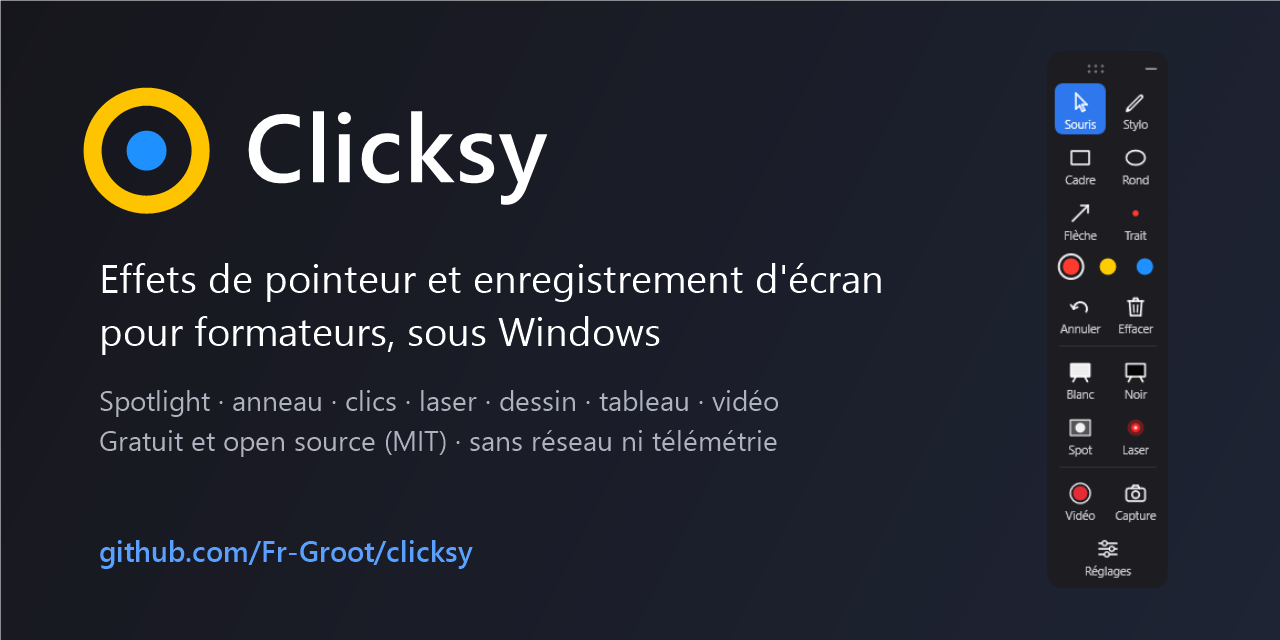
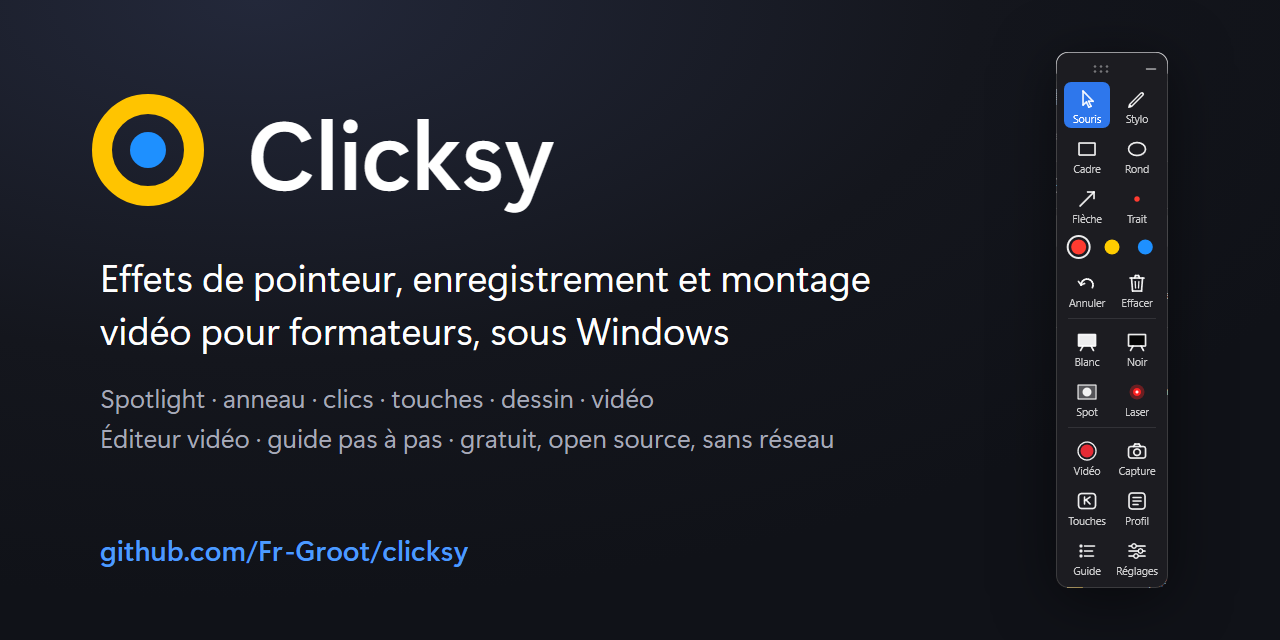
Site et README : éditeur vidéo, guide pas à pas, nouvelles captures
- Sections « Un éditeur vidéo intégré » et « Un guide pas à pas, sans rien écrire ».
- Nouvelles cartes : touches affichées, guide, profils, séances rangées par formation.
- Captures refaites avec la v0.6 sur un contenu neutre (réglages, spotlight, barre
  d'outils, éditeur, guide) et nouvelle image d'aperçu pour les réseaux.
- FAQ (rangement des fichiers, confidentialité du guide) et note entreprise précisée.

diff --git a/site/index.html b/site/index.html
@@ -3,12 +3,12 @@
 <head>
   <meta charset="utf-8">
   <meta name="viewport" content="width=device-width, initial-scale=1">
-  <title>Clicksy – Effets de pointeur et enregistrement d'écran pour formateurs</title>
-  <meta name="description" content="Clicksy est une application Windows gratuite et open source pour formateurs : spotlight, anneau autour du curseur, effets de clic, pointeur laser, dessin à l'écran, tableau blanc et enregistrement vidéo. Sans réseau ni télémétrie.">
+  <title>Clicksy – Effets de pointeur, enregistrement et montage vidéo pour formateurs</title>
+  <meta name="description" content="Clicksy est une application Windows gratuite et open source pour formateurs : spotlight, anneau autour du curseur, effets de clic, touches affichées, dessin à l'écran, enregistrement vidéo avec éditeur (coupes, zooms sur les clics) et guide pas à pas imprimable. Sans réseau ni télémétrie.">
   <link rel="icon" href="images/icon.png">
   <meta property="og:type" content="website">
   <meta property="og:title" content="Clicksy – Effets de pointeur pour formateurs">
-  <meta property="og:description" content="Spotlight, anneau, clics, laser, dessin à l'écran, tableau blanc et enregistrement vidéo. Gratuit, open source, sans réseau ni télémétrie.">
+  <meta property="og:description" content="Spotlight, anneau, clics, touches affichées, dessin, enregistrement vidéo avec éditeur et guide pas à pas. Gratuit, open source, sans réseau ni télémétrie.">
   <meta property="og:image" content="https://fr-groot.github.io/clicksy/images/social-preview.png">
   <meta property="og:url" content="https://fr-groot.github.io/clicksy/">
   <meta name="twitter:card" content="summary_large_image">
@@ -23,6 +23,8 @@
       </a>
       <nav>
         <a href="#fonctions">Fonctions</a>
+        <a href="#editeur">Éditeur</a>
+        <a href="#guide">Guide</a>
         <a href="#entreprise">Entreprise</a>
         <a href="#faq">FAQ</a>
         <a href="https://github.com/Fr-Groot/clicksy">GitHub</a>
@@ -35,7 +37,7 @@
       <div class="hero-text">
         <p class="kicker">Gratuit · open source · Windows 10 et 11</p>
         <h1>Guidez le regard de votre public</h1>
-        <p class="lead">Clicksy met en valeur votre souris, vos clics et vos annotations pendant vos tutos e-learning, vos démos de logiciels et vos classes virtuelles sur Teams, Zoom ou Meet. Et il enregistre l'écran quand vous en avez besoin.</p>
+        <p class="lead">Clicksy met en valeur votre souris, vos clics et vos annotations pendant vos tutos e-learning, vos démos de logiciels et vos classes virtuelles sur Teams, Zoom ou Meet. Il enregistre l'écran, vous aide à monter la vidéo, et transforme vos clics en guide pas à pas pour vos stagiaires.</p>
         <div class="cta">
           <a class="btn primary" id="dl-msi" href="https://github.com/Fr-Groot/clicksy/releases/latest">Télécharger pour Windows</a>
           <a class="btn" id="dl-zip" href="https://github.com/Fr-Groot/clicksy/releases/latest">Version portable (zip)</a>
@@ -48,8 +50,8 @@
         </ul>
       </div>
       <div class="hero-shots">
-        <img class="shot main" src="images/spotlight.png" alt="Spotlight et anneau jaune autour du curseur, sur la fenêtre de réglages de Clicksy" width="862" height="412">
-        <img class="shot bar" src="images/barre-outils.png" alt="Barre d'outils flottante de Clicksy" width="112" height="486">
+        <img class="shot main" src="images/spotlight.png" alt="Spotlight et anneau jaune autour du curseur, sur la fenêtre de réglages de Clicksy" width="1184" height="560">
+        <img class="shot bar" src="images/barre-outils.png" alt="Barre d'outils flottante de Clicksy" width="112" height="536">
       </div>
     </section>
 
@@ -64,8 +66,44 @@
           <article><span class="ico" style="--c:#FF3B30">●</span><h3>Laser et traînée</h3><p>Un point lumineux qui laisse une traînée, comme une télécommande de présentation.</p></article>
           <article><span class="ico" style="--c:#FF3B30">✎</span><h3>Dessin à l'écran</h3><p>Stylo, cadre, rond et flèche, en 3 couleurs. Maj pour des formes parfaites, Ctrl+Z pour annuler, Échap pour effacer.</p></article>
           <article><span class="ico" style="--c:#e6e6e6">▭</span><h3>Tableau blanc ou noir</h3><p>Un écran vierge, en un clic, pour expliquer un schéma. Vos dessins de l'écran vous attendent à la fermeture.</p></article>
-          <article><span class="ico" style="--c:#E52B35">⏺</span><h3>Enregistrement vidéo</h3><p>Écran entier, une fenêtre ou une zone, avec le son du PC et le micro. La souris et les effets apparaissent dans la vidéo.</p></article>
-          <article><span class="ico" style="--c:#2f7cf6">⧉</span><h3>Capture d'écran</h3><p>Une image PNG enregistrée dans Images › Clicksy et copiée dans le presse-papiers, prête à coller dans Word ou Teams.</p></article>
+          <article><span class="ico" style="--c:#7b5cff">⌨</span><h3>Touches affichées</h3><p>Les raccourcis utilisés apparaissent en bas de l'écran : « Ctrl + C », « Maj + Clic gauche ». Jamais le texte d'un mot de passe.</p></article>
+          <article><span class="ico" style="--c:#E52B35">⏺</span><h3>Enregistrement vidéo</h3><p>Écran entier, une fenêtre ou une zone, avec le son du PC et le micro, puis montage dans l'éditeur intégré.</p></article>
+          <article><span class="ico" style="--c:#2ecc71">☰</span><h3>Guide pas à pas</h3><p>Chaque clic devient une étape illustrée et décrite. Le guide s'imprime ou s'enregistre en PDF pour les stagiaires.</p></article>
+          <article><span class="ico" style="--c:#2f7cf6">⧉</span><h3>Capture d'écran</h3><p>Une image PNG copiée dans le presse-papiers, prête à coller dans Word ou Teams, et rangée dans le dossier de la séance.</p></article>
+          <article><span class="ico" style="--c:#FFC400">◐</span><h3>Profils d'utilisation</h3><p>Tuto, classe virtuelle, stream, démo logiciel ou vos propres réglages : un clic pour passer de l'un à l'autre.</p></article>
+          <article><span class="ico" style="--c:#1E90FF">▤</span><h3>Séances bien rangées</h3><p>Captures, tableaux et vidéos d'une séance dans un seul dossier, classé par formation. Interface en français et en anglais.</p></article>
+        </div>
+      </div>
+    </section>
+
+    <section id="editeur" class="wrap split">
+      <div>
+        <p class="kicker">Nouveau</p>
+        <h2>Un éditeur vidéo intégré</h2>
+        <p class="sub">Dès la fin de l'enregistrement, la vidéo s'ouvre dans l'éditeur. Quelques minutes suffisent pour une vidéo propre.</p>
+        <ul class="checks">
+          <li><strong>Zooms automatiques sur les clics.</strong> Clicksy se rapproche de l'endroit où vous cliquez, avec des transitions douces. Chaque zoom se déplace, s'allonge ou se règle.</li>
+          <li><strong>Couper sans effort.</strong> Réglez le début et la fin, retirez une hésitation au milieu : la lecture saute déjà les passages coupés.</li>
+          <li><strong>Son maîtrisé.</strong> Volume du son du PC et du micro, pistes enregistrées séparément.</li>
+          <li><strong>Export MP4</strong> en un clic, dans le dossier de la séance. Vos réglages restent enregistrés : rouvrez et réexportez quand vous voulez.</li>
+        </ul>
+      </div>
+      <img class="shot" src="images/editeur.png" alt="Éditeur vidéo de Clicksy : aperçu zoomé, frise avec un passage coupé et quatre zooms sur les clics" width="1484" height="932" loading="lazy">
+    </section>
+
+    <section id="guide" class="band">
+      <div class="wrap split reverse">
+        <img class="shot" src="images/guide.png" alt="Guide pas à pas généré par Clicksy : étapes numérotées avec description et gros plan sur le clic" width="920" height="1045" loading="lazy">
+        <div>
+          <p class="kicker">Nouveau</p>
+          <h2>Un guide pas à pas, sans rien écrire</h2>
+          <p class="sub">Cliquez sur « Guide », faites la manipulation une fois : Clicksy rédige le mode d'emploi pour vos stagiaires.</p>
+          <ul class="checks">
+            <li><strong>Chaque clic devient une étape</strong>, avec un gros plan de l'écran et un repère rouge à l'endroit du clic.</li>
+            <li><strong>Décrite automatiquement</strong> grâce à l'accessibilité de Windows : « Cliquer sur le bouton « Enregistrer » », « Cliquer sur l'onglet « Accueil » ». Les raccourcis deviennent aussi des étapes.</li>
+            <li><strong>Votre texte reste privé.</strong> Ce que vous tapez est signalé (« Saisir le texte voulu ») mais jamais noté.</li>
+            <li><strong>Modifiable et imprimable.</strong> Retouchez les textes dans le navigateur, puis imprimez ou enregistrez en PDF.</li>
+          </ul>
         </div>
       </div>
     </section>
@@ -81,7 +119,7 @@
           <li><strong>Interface en français et en anglais</strong>, profils (tuto, classe virtuelle, stream) appliqués en un clic, réglages appliqués en direct, thème clair ou sombre comme Windows.</li>
         </ul>
       </div>
-      <img class="shot" src="images/reglages.png" alt="Fenêtre de réglages de Clicksy, page Général" width="862" height="412" loading="lazy">
+      <img class="shot" src="images/reglages.png" alt="Fenêtre de réglages de Clicksy, page Profils" width="1184" height="640" loading="lazy">
     </section>
 
     <section id="entreprise" class="band">
@@ -89,12 +127,12 @@
         <h2>Pour votre service informatique</h2>
         <p class="sub">Clicksy a été conçu pour les postes d'entreprise. Voici ce qu'il faut savoir pour l'autoriser.</p>
         <div class="grid two">
-          <article><h3>Aucune donnée ne sort</h3><p>Pas de connexion réseau, pas de télémétrie, pas de mise à jour automatique. Les touches ne sont jamais enregistrées : le clavier ne sert qu'aux raccourcis.</p></article>
+          <article><h3>Aucune donnée ne sort</h3><p>Pas de connexion réseau, pas de télémétrie, pas de mise à jour automatique. Les touches ne sont jamais enregistrées : elles servent aux raccourcis et, si vous l'activez, à l'affichage des touches, oubliées après quelques secondes.</p></article>
           <article><h3>Installation MSI</h3><p>Installation pour tout le PC dans Program Files, déployable par Intune ou SCCM, en mode silencieux : <code>msiexec /i Clicksy_…_x64_fr-FR.msi /qn</code>.</p></article>
           <article><h3>Code source public</h3><p>Le code (Rust, licence MIT) et le workflow de construction GitHub Actions sont publics, avec les sommes SHA256 de chaque fichier publié.</p></article>
           <article><h3>Fichiers non signés pour l'instant</h3><p>Le service informatique peut autoriser le MSI, ou le signer avec l'autorité de certification interne de l'entreprise.</p></article>
         </div>
-        <p class="note">Clicksy surveille la souris et le clavier (hooks Windows) uniquement pour afficher les effets et déclencher ses raccourcis. Il ne lit pas le contenu des fenêtres et ne stocke rien hors de son dossier de réglages, des captures et des vidéos que vous lancez vous-même.</p>
+        <p class="note">Clicksy surveille la souris et le clavier (hooks Windows) uniquement pour afficher les effets et déclencher ses raccourcis. Il ne lit pas le contenu des fenêtres et ne stocke rien hors de son dossier de réglages, des captures, des vidéos et des guides que vous lancez vous-même. Pendant un guide pas à pas, il lit seulement le nom de l'élément cliqué (accessibilité Windows) pour décrire l'étape.</p>
       </div>
     </section>
 
@@ -113,12 +151,20 @@
         <p>Oui, si vous partagez l'écran entier. Si vous ne partagez qu'une seule fenêtre, Teams, Zoom et Meet ne transmettent que cette fenêtre, sans les effets.</p>
       </details>
       <details>
+        <summary>Où sont rangées mes vidéos, captures et guides ?</summary>
+        <p>Dans <code>Documents\Clicksy</code>, un dossier par séance (et par formation si vous en indiquez une). La vidéo finale de l'éditeur est enregistrée à côté de l'enregistrement d'origine.</p>
+      </details>
+      <details>
+        <summary>Le guide pas à pas enregistre-t-il ce que je tape ?</summary>
+        <p>Non. Il note qu'un texte a été saisi (« Saisir le texte voulu »), jamais son contenu. Il décrit les clics avec le nom de l'élément cliqué, et vous pouvez tout retoucher avant d'imprimer.</p>
+      </details>
+      <details>
         <summary>Ça marche avec deux écrans ?</summary>
         <p>Oui. Clicksy crée une surcouche par écran et adapte la taille des effets à l'échelle de chacun (100 %, 150 %…).</p>
       </details>
       <details>
         <summary>Quelles sont les limites ?</summary>
-        <p>Dans une application lancée en administrateur, les clics et raccourcis ne sont pas vus. Les écrans de sécurité (UAC, Ctrl+Alt+Suppr) et les jeux en plein écran exclusif ne peuvent pas afficher d'effets. Les vidéos protégées apparaissent en noir dans un enregistrement.</p>
+        <p>Dans une application lancée en administrateur, les clics et raccourcis ne sont pas vus. Les écrans de sécurité (UAC, Ctrl+Alt+Suppr) et les jeux en plein écran exclusif ne peuvent pas afficher d'effets. Les vidéos protégées apparaissent en noir dans un enregistrement. Sur un très grand écran, l'export de l'éditeur peut prendre un peu plus que la durée de la vidéo.</p>
       </details>
       <details>
         <summary>Combien ça coûte ?</summary>
@@ -129,7 +175,7 @@
     <section class="band en" lang="en">
       <div class="wrap">
         <h2>In English</h2>
-        <p>Clicksy is a free, open-source (MIT) Windows 10/11 app for trainers and presenters: spotlight, cursor ring, click ripples, laser pointer, on-screen drawing, whiteboard, screenshots and screen recording with system audio and microphone. A floating toolbar never steals focus and stays hidden from screen sharing. It can show the shortcuts you press, apply usage profiles (tutorial, virtual class, stream, software demo) in one click, and keep each session's files together, sorted by course. No network access, no telemetry, keystrokes never stored. The interface is in English and French.</p>
+        <p>Clicksy is a free, open-source (MIT) Windows 10/11 app for trainers and presenters: spotlight, cursor ring, click ripples, laser pointer, on-screen drawing, whiteboard, screenshots and screen recording with system audio and microphone. A floating toolbar never steals focus and stays hidden from screen sharing. It can show the shortcuts you press, apply usage profiles (tutorial, virtual class, stream, software demo) in one click, and keep each session's files together, sorted by course. A built-in video editor trims and cuts your recordings and zooms automatically on clicks, and the step-by-step guide turns each click into an illustrated, printable step. No network access, no telemetry, keystrokes never stored. The interface is in English and French.</p>
         <a class="btn primary" href="https://github.com/Fr-Groot/clicksy/releases/latest">Download for Windows</a>
       </div>
     </section>

diff --git a/site/style.css b/site/style.css
@@ -116,3 +116,11 @@ h2 { font: 700 clamp(26px, 3.4vw, 36px)/1.2 "Segoe UI Variable Display", "Segoe 
   .btn { width: 100%; text-align: center; }
   .hero-shots .bar { display: none; }
 }
+
+/* Section image à gauche, texte à droite. */
+.split.reverse { grid-template-columns: 0.85fr 1fr; }
+.split .kicker { margin-bottom: 6px; }
+@media (max-width: 960px) {
+  .split.reverse { grid-template-columns: 1fr; }
+  .split.reverse > img { order: 2; }
+}

diff --git a/README.md b/README.md
@@ -54,7 +54,11 @@ in [Issues](https://github.com/Fr-Groot/clicksy/issues), in English or French.
 
 | Fenêtre de réglages | Barre d'outils |
 |---|---|
-| ![Réglages de Clicksy, page Général](docs/images/reglages.png) | ![Barre d'outils de Clicksy](docs/images/barre-outils.png) |
+| ![Réglages de Clicksy, page Profils](docs/images/reglages.png) | ![Barre d'outils de Clicksy](docs/images/barre-outils.png) |
+
+| Éditeur vidéo | Guide pas à pas |
+|---|---|
+| ![Éditeur vidéo : aperçu zoomé, coupes et zooms sur les clics](docs/images/editeur.png) | ![Guide pas à pas imprimable généré par Clicksy](docs/images/guide.png) |
 
 Tout s'applique en direct : bouger un curseur de réglage modifie l'effet à l'écran pendant le
 glissement. La barre d'outils donne accès au dessin, au tableau, à la capture, au laser, au spotlight
